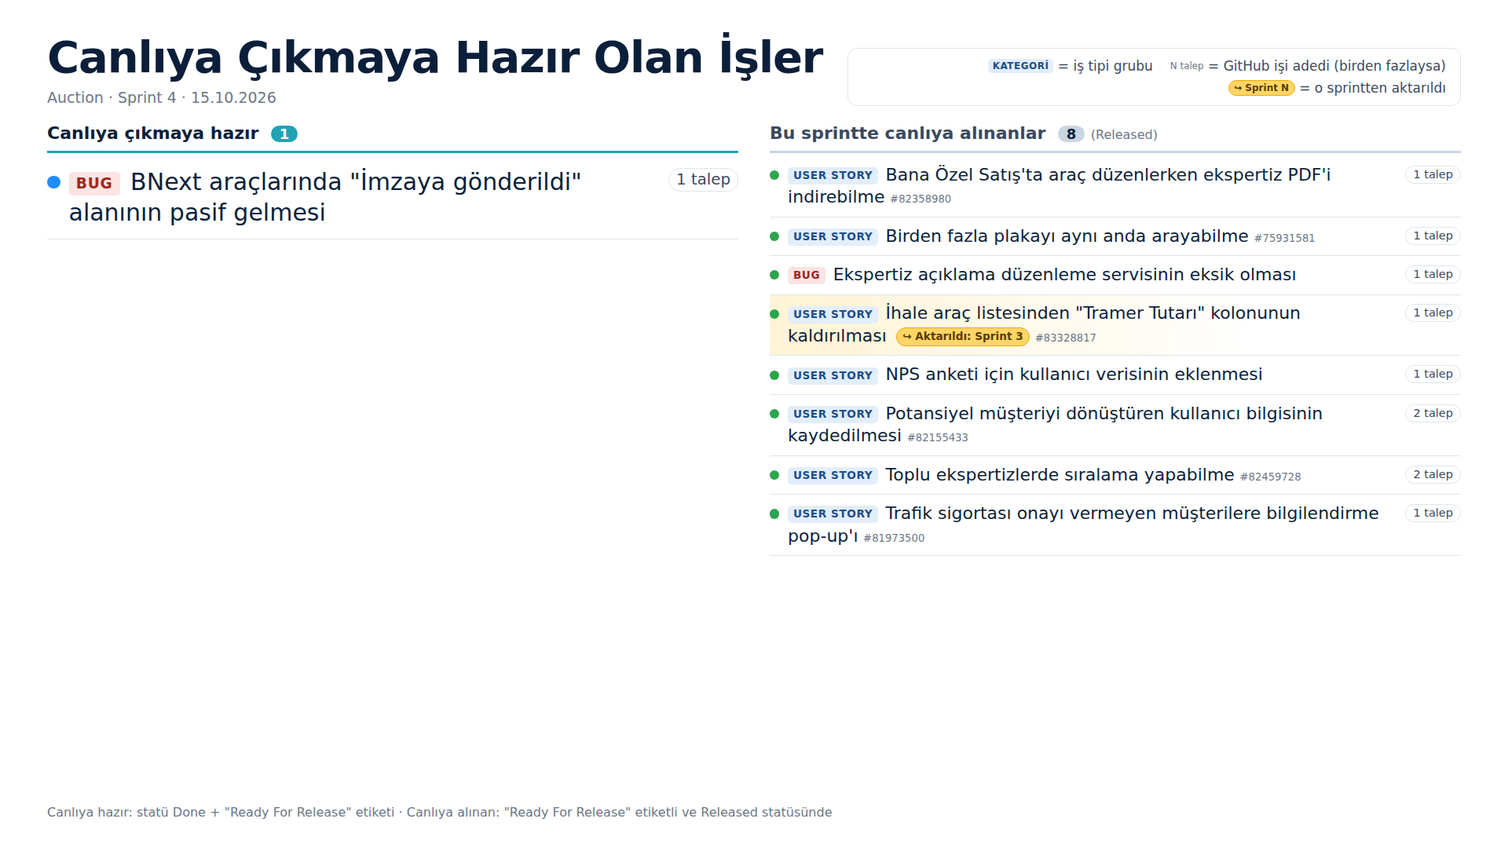
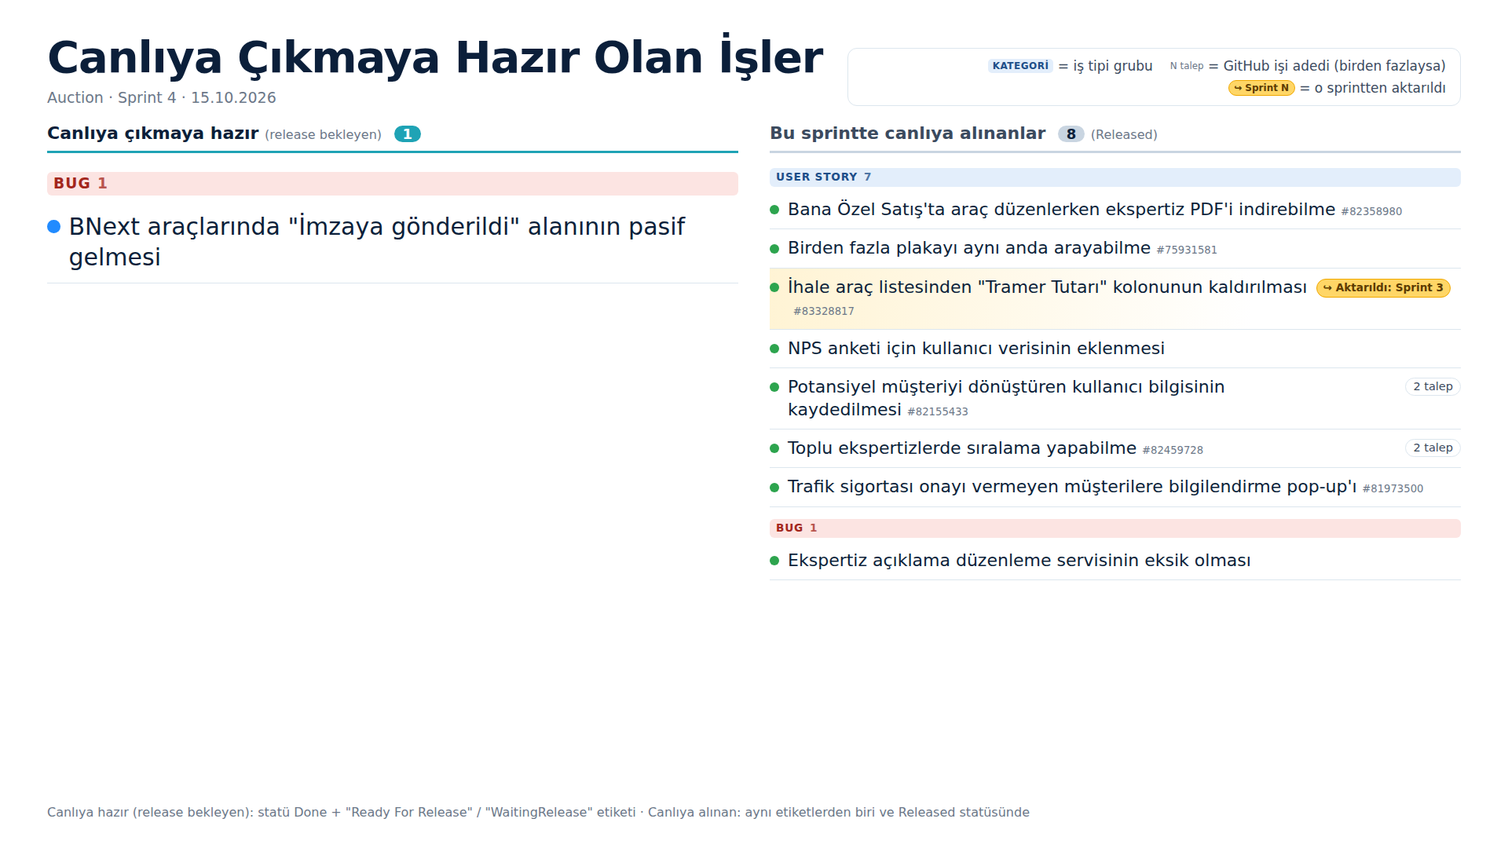
Release slide: group both lists by work type, treat WaitingRelease on Done as release-pending
- Proje → User Story → Task → Bug subheaders in 'Canlıya hazır' and 'canlıya alınanlar' lists, no per-item type tags
- ready labels default to Ready For Release, WaitingRelease, Waiting For Release
- 'N talep' shown only when a theme has more than one GitHub item
- regenerate Retail, Back Office and Auction decks

Claude-Session: https://claude.ai/code/session_014SYUQQBmb2NC56QaszpaqB

Changed region(s): [[0.0312, 0.1528, 0.9688, 0.6722], [0.0938, 0.9472, 0.6875, 0.9778]]

diff --git a/sunum/retail-2026-10-15/retail-slaytlar.html b/sunum/retail-2026-10-15/retail-slaytlar.html
@@ -155,6 +155,8 @@ h1 span { color:var(--accent); font-weight:600; }
 .khead.task { background:#ECEDEF; color:#4A5363; }
 .kmeta { font-size:.7em; color:var(--muted); white-space:nowrap; }
 .lempty { color:var(--muted); text-align:center; padding:20px 0; }
+.list li.lgroup { border:0; padding:calc(var(--fs) * .6) 0 calc(var(--fs) * .15); break-after:avoid; }
+.list li.lgroup .khead { width:100%; font-size:calc(var(--fs) * .62); }
 .rnote { font-size:16px; color:var(--muted); margin-top:14px; }
 @media print {
   @page { size:1920px 1080px; margin:0; }
@@ -302,24 +304,29 @@ Released · BNext | Randevu Ayarları Ekranı: Pazar Günü Slot Açılış/Kapa
     <ul class="legend"><li><span class="cat story">Kategori</span>&nbsp;= iş tipi grubu</li><li><span class="kmeta">N talep</span>&nbsp;= GitHub işi adedi (birden fazlaysa)</li><li><span class="carry">↪ Sprint N</span>&nbsp;= o sprintten aktarıldı</li></ul>
   </header>
   <div class="rgrid">
-    <div class="rsec"><div class="rtitle">Canlıya çıkmaya hazır <b>0</b></div>
+    <div class="rsec"><div class="rtitle">Canlıya çıkmaya hazır <small>(release bekleyen)</small> <b>2</b></div>
       <ul class="list" style="--cols:1;--max:30">
-<li class="empty">Bu kriterde iş yok.</li>
+<li class="lgroup"><span class="khead bug">Bug<span>2</span></span></li>
+<li class="" title="Done · [BUG] Kullanıcı Verilerine Yetkisiz Erişim (IDOR) Denetim Bulgusu"><span class="dot" style="--c:#218BFF"></span><span class="t">Kullanıcı verilerine yetkisiz erişim açığı (IDOR, denetim bulgusu)</span></li>
+<li class="" title="Done · [BUG] Yetersiz Sunucu Taraflı Kontroller"><span class="dot" style="--c:#218BFF"></span><span class="t">Sunucu tarafı kontrollerin yetersiz olması (denetim bulgusu)</span></li>
       </ul></div>
     <div class="rsec done"><div class="rtitle">Bu sprintte canlıya alınanlar <b>9</b> <small>(Released)</small></div>
       <ul class="list" style="--cols:1;--max:22">
-<li class="" title="Released · Agentless Call Center Aranmama Talebinin Müşteriye Bağlı Tüm Kayıtlara Uygulanması"><span class="dot" style="--c:#2DA44E"></span><span class="t"><span class="cat proj">Proje işi</span> Agentless Call Center: aranmama talebinin müşterinin tüm kayıtlarına uygulanması</span><span class="cnt">1 talep</span></li>
-<li class="" title="Released · 83249752 &gt;Web FE Araba Al Filtresinin “Opsiyonsuz Arabalar” Olarak Güncellenmesi"><span class="dot" style="--c:#2DA44E"></span><span class="t"><span class="cat story">User Story</span> Araba Al filtresinin &quot;Opsiyonsuz arabalar&quot; olarak güncellenmesi (Web)<span class="xno">#83249752</span></span><span class="cnt">1 talep</span></li>
-<li class="" title="Released · borusannext.com Filtre Kontrolü"><span class="dot" style="--c:#2DA44E"></span><span class="t"><span class="cat story">User Story</span> borusannext.com filtrelerinin kontrolü<span class="xno">#83701817</span></span><span class="cnt">1 talep</span></li>
-<li class="" title="Released · CMS Banner MobilResponsive İmage Ekleme Alanı"><span class="dot" style="--c:#2DA44E"></span><span class="t"><span class="cat story">User Story</span> CMS banner&#x27;larına mobil uyumlu görsel ekleme alanı</span><span class="cnt">1 talep</span></li>
-<li class="" title="Released · BE SAD ve DU çift rol Atama Geliştirmesi"><span class="dot" style="--c:#2DA44E"></span><span class="t"><span class="cat story">User Story</span> Değerleme uzmanının kendi değerleme sonucunu görebilmesi ve SAD/DU çift rol ataması<span class="xno">#84196413</span></span><span class="cnt">1 talep</span></li>
-<li class="" title="Released · Kişiselleştirme Projesi Sözleşme Sorgulama Servisinin Bff e Eklenmesi"><span class="dot" style="--c:#2DA44E"></span><span class="t"><span class="cat proj">Proje işi</span> Kişiselleştirme: sözleşme sorgulama servisinin uygulama katmanına eklenmesi</span><span class="cnt">1 talep</span></li>
-<li class="" title="Released · [BUG] Motosiklet Seçiminde Araba Markaları Listelenmektedir."><span class="dot" style="--c:#2DA44E"></span><span class="t"><span class="cat bug">Bug</span> Motosiklet seçiminde araba markalarının listelenmesi</span><span class="cnt">1 talep</span></li>
-<li class="" title="Released · BNext | Randevu Ayarları Ekranı: Pazar Günü Slot Açılış/Kapanış Kontrolleri - 4h - BCF-1634"><span class="dot" style="--c:#2DA44E"></span><span class="t"><span class="cat story">User Story</span> Randevu ayarlarında pazar günü slot açma/kapama kontrolleri</span><span class="cnt">1 talep</span></li>
-<li class="" title="Released · [BUG] Statü Değiştiğinde Ekspertizin Kontrol Dışı Kalma Durumu"><span class="dot" style="--c:#2DA44E"></span><span class="t"><span class="cat bug">Bug</span> Statü değişiminde ekspertizin kontrol dışı kalması</span><span class="cnt">1 talep</span></li>
+<li class="lgroup"><span class="khead proj">Proje<span>2</span></span></li>
+<li class="" title="Released · Agentless Call Center Aranmama Talebinin Müşteriye Bağlı Tüm Kayıtlara Uygulanması"><span class="dot" style="--c:#2DA44E"></span><span class="t">Agentless Call Center: aranmama talebinin müşterinin tüm kayıtlarına uygulanması</span></li>
+<li class="" title="Released · Kişiselleştirme Projesi Sözleşme Sorgulama Servisinin Bff e Eklenmesi"><span class="dot" style="--c:#2DA44E"></span><span class="t">Kişiselleştirme: sözleşme sorgulama servisinin uygulama katmanına eklenmesi</span></li>
+<li class="lgroup"><span class="khead story">User Story<span>5</span></span></li>
+<li class="" title="Released · 83249752 &gt;Web FE Araba Al Filtresinin “Opsiyonsuz Arabalar” Olarak Güncellenmesi"><span class="dot" style="--c:#2DA44E"></span><span class="t">Araba Al filtresinin &quot;Opsiyonsuz arabalar&quot; olarak güncellenmesi (Web)<span class="xno">#83249752</span></span></li>
+<li class="" title="Released · borusannext.com Filtre Kontrolü"><span class="dot" style="--c:#2DA44E"></span><span class="t">borusannext.com filtrelerinin kontrolü<span class="xno">#83701817</span></span></li>
+<li class="" title="Released · CMS Banner MobilResponsive İmage Ekleme Alanı"><span class="dot" style="--c:#2DA44E"></span><span class="t">CMS banner&#x27;larına mobil uyumlu görsel ekleme alanı</span></li>
+<li class="" title="Released · BE SAD ve DU çift rol Atama Geliştirmesi"><span class="dot" style="--c:#2DA44E"></span><span class="t">Değerleme uzmanının kendi değerleme sonucunu görebilmesi ve SAD/DU çift rol ataması<span class="xno">#84196413</span></span></li>
+<li class="" title="Released · BNext | Randevu Ayarları Ekranı: Pazar Günü Slot Açılış/Kapanış Kontrolleri - 4h - BCF-1634"><span class="dot" style="--c:#2DA44E"></span><span class="t">Randevu ayarlarında pazar günü slot açma/kapama kontrolleri</span></li>
+<li class="lgroup"><span class="khead bug">Bug<span>2</span></span></li>
+<li class="" title="Released · [BUG] Motosiklet Seçiminde Araba Markaları Listelenmektedir."><span class="dot" style="--c:#2DA44E"></span><span class="t">Motosiklet seçiminde araba markalarının listelenmesi</span></li>
+<li class="" title="Released · [BUG] Statü Değiştiğinde Ekspertizin Kontrol Dışı Kalma Durumu"><span class="dot" style="--c:#2DA44E"></span><span class="t">Statü değişiminde ekspertizin kontrol dışı kalması</span></li>
       </ul></div>
   </div>
-  <div class="rnote">Canlıya hazır: statü Done + "Ready For Release" etiketi · Canlıya alınan: "Ready For Release" etiketli ve Released statüsünde</div>
+  <div class="rnote">Canlıya hazır (release bekleyen): statü Done + "Ready For Release" / "WaitingRelease" etiketi · Canlıya alınan: aynı etiketlerden biri ve Released statüsünde</div>
 </section></div>
 
 </div>

diff --git a/sunum/auction-2026-10-15/auction-slaytlar.html b/sunum/auction-2026-10-15/auction-slaytlar.html
@@ -155,6 +155,8 @@ h1 span { color:var(--accent); font-weight:600; }
 .khead.task { background:#ECEDEF; color:#4A5363; }
 .kmeta { font-size:.7em; color:var(--muted); white-space:nowrap; }
 .lempty { color:var(--muted); text-align:center; padding:20px 0; }
+.list li.lgroup { border:0; padding:calc(var(--fs) * .6) 0 calc(var(--fs) * .15); break-after:avoid; }
+.list li.lgroup .khead { width:100%; font-size:calc(var(--fs) * .62); }
 .rnote { font-size:16px; color:var(--muted); margin-top:14px; }
 @media print {
   @page { size:1920px 1080px; margin:0; }
@@ -306,25 +308,28 @@ Released · Toplu Ekspertiz Sıralama Fonksiyonu Eklenmesi BE"><span class="dot"
     <ul class="legend"><li><span class="cat story">Kategori</span>&nbsp;= iş tipi grubu</li><li><span class="kmeta">N talep</span>&nbsp;= GitHub işi adedi (birden fazlaysa)</li><li><span class="carry">↪ Sprint N</span>&nbsp;= o sprintten aktarıldı</li></ul>
   </header>
   <div class="rgrid">
-    <div class="rsec"><div class="rtitle">Canlıya çıkmaya hazır <b>1</b></div>
+    <div class="rsec"><div class="rtitle">Canlıya çıkmaya hazır <small>(release bekleyen)</small> <b>1</b></div>
       <ul class="list" style="--cols:1;--max:30">
-<li class="" title="Done · [BUG] Bnext Araçlarında İmzaya Gönderildi Alanın Disable Gelmesi Hk."><span class="dot" style="--c:#218BFF"></span><span class="t"><span class="cat bug">Bug</span> BNext araçlarında &quot;İmzaya gönderildi&quot; alanının pasif gelmesi</span><span class="cnt">1 talep</span></li>
+<li class="lgroup"><span class="khead bug">Bug<span>1</span></span></li>
+<li class="" title="Done · [BUG] Bnext Araçlarında İmzaya Gönderildi Alanın Disable Gelmesi Hk."><span class="dot" style="--c:#218BFF"></span><span class="t">BNext araçlarında &quot;İmzaya gönderildi&quot; alanının pasif gelmesi</span></li>
       </ul></div>
     <div class="rsec done"><div class="rtitle">Bu sprintte canlıya alınanlar <b>8</b> <small>(Released)</small></div>
       <ul class="list" style="--cols:1;--max:22">
-<li class="" title="Released · Bana Özel Satıştaki Araç Düzenleme Alanında Ekspertiz PDF İndirme"><span class="dot" style="--c:#2DA44E"></span><span class="t"><span class="cat story">User Story</span> Bana Özel Satış&#x27;ta araç düzenlerken ekspertiz PDF&#x27;i indirebilme<span class="xno">#82358980</span></span><span class="cnt">1 talep</span></li>
-<li class="" title="Released · Birden Fazla Plakayı Aynı Anda Aratma"><span class="dot" style="--c:#2DA44E"></span><span class="t"><span class="cat story">User Story</span> Birden fazla plakayı aynı anda arayabilme<span class="xno">#75931581</span></span><span class="cnt">1 talep</span></li>
-<li class="" title="Released · [BUG] Ekspertiz Açıklama Ekranının Düzenlenebilmesi BE Servisi Eklenmesi"><span class="dot" style="--c:#2DA44E"></span><span class="t"><span class="cat bug">Bug</span> Ekspertiz açıklama düzenleme servisinin eksik olması</span><span class="cnt">1 talep</span></li>
-<li class="carried" title="Released · İhale Araç Liste Görünümünden &quot;Tramer Tutarı&quot; Kolonunun Kaldırılması"><span class="dot" style="--c:#2DA44E"></span><span class="t"><span class="cat story">User Story</span> İhale araç listesinden &quot;Tramer Tutarı&quot; kolonunun kaldırılması <span class="carry" title="Original Sprint: Sprint 3">↪ Aktarıldı: Sprint 3</span><span class="xno">#83328817</span></span><span class="cnt">1 talep</span></li>
-<li class="" title="Released · User_Data Bilgisinin Eklenmesi (NPS Kurgusu)"><span class="dot" style="--c:#2DA44E"></span><span class="t"><span class="cat story">User Story</span> NPS anketi için kullanıcı verisinin eklenmesi</span><span class="cnt">1 talep</span></li>
+<li class="lgroup"><span class="khead story">User Story<span>7</span></span></li>
+<li class="" title="Released · Bana Özel Satıştaki Araç Düzenleme Alanında Ekspertiz PDF İndirme"><span class="dot" style="--c:#2DA44E"></span><span class="t">Bana Özel Satış&#x27;ta araç düzenlerken ekspertiz PDF&#x27;i indirebilme<span class="xno">#82358980</span></span></li>
+<li class="" title="Released · Birden Fazla Plakayı Aynı Anda Aratma"><span class="dot" style="--c:#2DA44E"></span><span class="t">Birden fazla plakayı aynı anda arayabilme<span class="xno">#75931581</span></span></li>
+<li class="carried" title="Released · İhale Araç Liste Görünümünden &quot;Tramer Tutarı&quot; Kolonunun Kaldırılması"><span class="dot" style="--c:#2DA44E"></span><span class="t">İhale araç listesinden &quot;Tramer Tutarı&quot; kolonunun kaldırılması <span class="carry" title="Original Sprint: Sprint 3">↪ Aktarıldı: Sprint 3</span><span class="xno">#83328817</span></span></li>
+<li class="" title="Released · User_Data Bilgisinin Eklenmesi (NPS Kurgusu)"><span class="dot" style="--c:#2DA44E"></span><span class="t">NPS anketi için kullanıcı verisinin eklenmesi</span></li>
 <li class="" title="Released · Potansiyel Müşteri Sahibi, Dönüştüren Kullanıcı Bilgisinin Tutulması BE
-Released · Potansiyel Müşteri Sahibi, Dönüştüren Kullanıcı Bilgisinin Tutulması FE"><span class="dot" style="--c:#2DA44E"></span><span class="t"><span class="cat story">User Story</span> Potansiyel müşteriyi dönüştüren kullanıcı bilgisinin kaydedilmesi<span class="xno">#82155433</span></span><span class="cnt">2 talep</span></li>
+Released · Potansiyel Müşteri Sahibi, Dönüştüren Kullanıcı Bilgisinin Tutulması FE"><span class="dot" style="--c:#2DA44E"></span><span class="t">Potansiyel müşteriyi dönüştüren kullanıcı bilgisinin kaydedilmesi<span class="xno">#82155433</span></span><span class="cnt">2 talep</span></li>
 <li class="" title="Released · Toplu Ekspertiz Sıralama Fonksiyonu Eklenmesi FE
-Released · Toplu Ekspertiz Sıralama Fonksiyonu Eklenmesi BE"><span class="dot" style="--c:#2DA44E"></span><span class="t"><span class="cat story">User Story</span> Toplu ekspertizlerde sıralama yapabilme<span class="xno">#82459728</span></span><span class="cnt">2 talep</span></li>
-<li class="" title="Released · Trafik Sigortası için Onay Vermeyen Müşterilere Pop-up Açılması"><span class="dot" style="--c:#2DA44E"></span><span class="t"><span class="cat story">User Story</span> Trafik sigortası onayı vermeyen müşterilere bilgilendirme pop-up&#x27;ı<span class="xno">#81973500</span></span><span class="cnt">1 talep</span></li>
+Released · Toplu Ekspertiz Sıralama Fonksiyonu Eklenmesi BE"><span class="dot" style="--c:#2DA44E"></span><span class="t">Toplu ekspertizlerde sıralama yapabilme<span class="xno">#82459728</span></span><span class="cnt">2 talep</span></li>
+<li class="" title="Released · Trafik Sigortası için Onay Vermeyen Müşterilere Pop-up Açılması"><span class="dot" style="--c:#2DA44E"></span><span class="t">Trafik sigortası onayı vermeyen müşterilere bilgilendirme pop-up&#x27;ı<span class="xno">#81973500</span></span></li>
+<li class="lgroup"><span class="khead bug">Bug<span>1</span></span></li>
+<li class="" title="Released · [BUG] Ekspertiz Açıklama Ekranının Düzenlenebilmesi BE Servisi Eklenmesi"><span class="dot" style="--c:#2DA44E"></span><span class="t">Ekspertiz açıklama düzenleme servisinin eksik olması</span></li>
       </ul></div>
   </div>
-  <div class="rnote">Canlıya hazır: statü Done + "Ready For Release" etiketi · Canlıya alınan: "Ready For Release" etiketli ve Released statüsünde</div>
+  <div class="rnote">Canlıya hazır (release bekleyen): statü Done + "Ready For Release" / "WaitingRelease" etiketi · Canlıya alınan: aynı etiketlerden biri ve Released statüsünde</div>
 </section></div>
 
 </div>

diff --git a/sunum/back-office-2026-10-15/back-office-slaytlar.html b/sunum/back-office-2026-10-15/back-office-slaytlar.html
@@ -155,6 +155,8 @@ h1 span { color:var(--accent); font-weight:600; }
 .khead.task { background:#ECEDEF; color:#4A5363; }
 .kmeta { font-size:.7em; color:var(--muted); white-space:nowrap; }
 .lempty { color:var(--muted); text-align:center; padding:20px 0; }
+.list li.lgroup { border:0; padding:calc(var(--fs) * .6) 0 calc(var(--fs) * .15); break-after:avoid; }
+.list li.lgroup .khead { width:100%; font-size:calc(var(--fs) * .62); }
 .rnote { font-size:16px; color:var(--muted); margin-top:14px; }
 @media print {
   @page { size:1920px 1080px; margin:0; }
@@ -275,7 +277,7 @@ Done · Toplu Sevk BE İhtiyaçları"><span class="dot" style="--c:#218BFF"></sp
     <ul class="legend"><li><span class="cat story">Kategori</span>&nbsp;= iş tipi grubu</li><li><span class="kmeta">N talep</span>&nbsp;= GitHub işi adedi (birden fazlaysa)</li><li><span class="carry">↪ Sprint N</span>&nbsp;= o sprintten aktarıldı</li></ul>
   </header>
   <div class="rgrid">
-    <div class="rsec"><div class="rtitle">Canlıya çıkmaya hazır <b>0</b></div>
+    <div class="rsec"><div class="rtitle">Canlıya çıkmaya hazır <small>(release bekleyen)</small> <b>0</b></div>
       <ul class="list" style="--cols:1;--max:30">
 <li class="empty">Bu kriterde iş yok.</li>
       </ul></div>
@@ -284,7 +286,7 @@ Done · Toplu Sevk BE İhtiyaçları"><span class="dot" style="--c:#218BFF"></sp
 <li class="empty">Yok.</li>
       </ul></div>
   </div>
-  <div class="rnote">Canlıya hazır: statü Done + "Ready For Release" etiketi · Canlıya alınan: "Ready For Release" etiketli ve — statüsünde</div>
+  <div class="rnote">Canlıya hazır (release bekleyen): statü Done + "Ready For Release" / "WaitingRelease" etiketi · Canlıya alınan: aynı etiketlerden biri ve — statüsünde</div>
 </section></div>
 
 </div>

diff --git a/.claude/skills/gelistirmeler-raporu/scripts/build_slides.py b/.claude/skills/gelistirmeler-raporu/scripts/build_slides.py
@@ -278,7 +278,7 @@ def histogram(bins: list[dict], key: str, color: str) -> str:
     return f'<div class="hist"><div class="hplot">{cols}</div><div class="hx">{labels}</div></div>'
 
 
-def group_li(g: dict, hexes: dict, origin_label: str) -> str:
+def group_li(g: dict, hexes: dict, origin_label: str, show_cat: bool = True) -> str:
     n = len(g["items"])
     carry = ""
     if g["carry"]:
@@ -288,9 +288,22 @@ def group_li(g: dict, hexes: dict, origin_label: str) -> str:
     xno = f'<span class="xno">#{esc(g["xno"])}</span>' if g["xno"] else ""
     return (f'<li class="{"carried" if g["carry"] else ""}" title="{esc(tip)}">'
             f'<span class="dot" style="--c:{hexes.get(g["status"], NO_STATUS_COLOR)}"></span>'
-            f'<span class="t"><span class="cat {CAT_CLASS[g["kind"]]}">{esc(g["kind"])}</span> '
-            f'{esc(g["name"])}{carry}{xno}</span>'
-            f'<span class="cnt">{n} talep</span></li>')
+            f'<span class="t">'
+            + (f'<span class="cat {CAT_CLASS[g["kind"]]}">{esc(g["kind"])}</span> ' if show_cat else "")
+            + f'{esc(g["name"])}{carry}{xno}</span>'
+            + (f'<span class="cnt">{n} talep</span>' if n > 1 else "") + '</li>')
+
+
+def grouped_list(groups: list[dict], hexes: dict, origin_label: str, empty: str) -> str:
+    """Liste maddelerini iş tipine göre Proje → User Story → Task → Bug alt başlıklarıyla dizer."""
+    out = []
+    for kind in KANBAN_KIND_ORDER:
+        kg = [g for g in groups if g["kind"] == kind]
+        if kg:
+            out.append(f'<li class="lgroup"><span class="khead {CAT_CLASS[kind]}">{esc(KIND_TITLE[kind])}'
+                       f'<span>{len(kg)}</span></span></li>')
+            out += [group_li(g, hexes, origin_label, show_cat=False) for g in kg]
+    return "\n".join(out) or f'<li class="empty">{empty}</li>'
 
 
 # Kanban kolonları: (başlık, statüler). Bilinmeyen statü "Geliştirmede" kolonuna düşer.
@@ -546,14 +559,13 @@ def build(a) -> None:
     ready_groups = group_items(ready_rows, order, themes)
     released = [r for r in rows if tr_lower(r["status"]) not in ready_st and r["done"]
                 and has_label(r, a.ready_label)]
-    ready_html = "\n".join(group_li(g, hexes, a.origin_field) for g in ready_groups) \
-        or '<li class="empty">Bu kriterde iş yok.</li>'
+    ready_html = grouped_list(ready_groups, hexes, a.origin_field, "Bu kriterde iş yok.")
     rel_groups = group_items(released, order, themes)
-    released_html = "\n".join(group_li(g, hexes, a.origin_field) for g in rel_groups) \
-        or '<li class="empty">Yok.</li>'
+    released_html = grouped_list(rel_groups, hexes, a.origin_field, "Yok.")
     rel_status = ", ".join(sorted({r["status"] for r in released})) or "—"
-    ready_note = (f'Canlıya hazır: statü {", ".join(a.ready_status)} + "{esc(a.ready_label[0])}" etiketi · '
-                  f'Canlıya alınan: "{esc(a.ready_label[0])}" etiketli ve {esc(rel_status)} statüsünde')
+    lbls = " / ".join(f'"{esc(x)}"' for x in a.ready_label[:2])
+    ready_note = (f'Canlıya hazır (release bekleyen): statü {", ".join(a.ready_status)} + {lbls} etiketi · '
+                  f'Canlıya alınan: aynı etiketlerden biri ve {esc(rel_status)} statüsünde')
 
     proj = data.get("project") or {}
     sprints = sorted({str(r["fields"].get(a.sprint_field) or "") for r in rows} - {""})
@@ -752,6 +764,8 @@ h1 span {{ color:var(--accent); font-weight:600; }}
 .khead.task {{ background:#ECEDEF; color:#4A5363; }}
 .kmeta {{ font-size:.7em; color:var(--muted); white-space:nowrap; }}
 .lempty {{ color:var(--muted); text-align:center; padding:20px 0; }}
+.list li.lgroup {{ border:0; padding:calc(var(--fs) * .6) 0 calc(var(--fs) * .15); break-after:avoid; }}
+.list li.lgroup .khead {{ width:100%; font-size:calc(var(--fs) * .62); }}
 .rnote {{ font-size:16px; color:var(--muted); margin-top:14px; }}
 @media print {{
   @page {{ size:1920px 1080px; margin:0; }}
@@ -816,7 +830,7 @@ h1 span {{ color:var(--accent); font-weight:600; }}
     <ul class="legend">{focus_key}</ul>
   </header>
   <div class="rgrid">
-    <div class="rsec"><div class="rtitle">Canlıya çıkmaya hazır <b>{n_ready}</b></div>
+    <div class="rsec"><div class="rtitle">Canlıya çıkmaya hazır <small>(release bekleyen)</small> <b>{n_ready}</b></div>
       <ul class="list" style="--cols:1;--max:30">
 {ready}
       </ul></div>
@@ -904,7 +918,7 @@ def main() -> None:
     a = ap.parse_args()
     a.mid_label = a.mid_label or ["AddedMidSprint"]
     a.tb_label = a.tb_label or ["TB", "Teknik Borç", "Tech Debt"]
-    a.ready_label = a.ready_label or ["Ready For Release"]
+    a.ready_label = a.ready_label or ["Ready For Release", "WaitingRelease", "Waiting For Release"]
     a.ready_status = a.ready_status or ["Done"]
     a.lead_status = a.lead_status or ["Done", "Released"]
     build(a)

diff --git a/.claude/skills/gelistirmeler-raporu/SKILL.md b/.claude/skills/gelistirmeler-raporu/SKILL.md
@@ -126,9 +126,12 @@ Kullanıcı slayt / sunum / sprint sunumu / 16:9 / PNG isterse `build_slides.py`
 3. **Metriklerimiz (Takıma özel)** — Original Estimate bazında planlanan vs. tamamlanan
    (toplam / Xurrent talepleri / ek talepler; iş bazında), statü dağılımı (OE) ve kişi
    bazında planlanan vs. tamamlanan (GitHub işi | OE).
-4. **Canlıya Çıkmaya Hazır Olan İşler** — statüsü `Done` **ve** `Ready For Release`
-   etiketli işler, slayt 1'deki gibi gruplanmış tema adlarıyla. Yanında ayrı başlıkla
-   "Bu sprintte canlıya alınanlar": aynı etiketli olup Released vb. bitmiş statüdeki işler.
+4. **Canlıya Çıkmaya Hazır Olan İşler** — statüsü `Done` **ve** `Ready For Release` ya da
+   `WaitingRelease` / `Waiting For Release` etiketli işler (release bekleyenler), slayt
+   1'deki gibi gruplanmış tema adlarıyla. Yanında ayrı başlıkla "Bu sprintte canlıya
+   alınanlar": aynı etiketlerden biri olup Released vb. bitmiş statüdeki işler. Her iki
+   kolonda maddeler kanbandaki gibi **Proje → User Story → Task → Bug** alt başlıkları
+   altında gruplanır; maddelerde tür etiketi yoktur, "N talep" yalnız birden fazlaysa yazar.
 
 ### Akış
 
@@ -170,7 +173,7 @@ yeniden kullanılabilir).
 | `--sprint-start` | — | **Zorunlu (lead time için):** `'Sprint 4=2026-10-05'`; tekrarlanabilir. Tanımlanmayan sprintler numarası ve `--sprint-days` (14) ile türetilir. Export'ta sprint tarihi yoktur — kullanıcıya sor veya bilinen bir tarihten çıkar ve varsayımı söyle |
 | `--mid-label` | `AddedMidSprint` | Sprint ortasında gelen iş |
 | `--tb-label` | `TB`, `Teknik Borç`, `Tech Debt` | Teknik borç |
-| `--ready-label` / `--ready-status` | `Ready For Release` / `Done` | Canlıya hazır |
+| `--ready-label` / `--ready-status` | `Ready For Release`, `WaitingRelease`, `Waiting For Release` / `Done` | Canlıya hazır (release bekleyen) |
 | `--team` | proje adı | Alt başlıktaki takım adı |
 
 Etiket eşleşmesi büyük/küçük harf, boşluk, `-` ve `_` farkını yok sayar.
